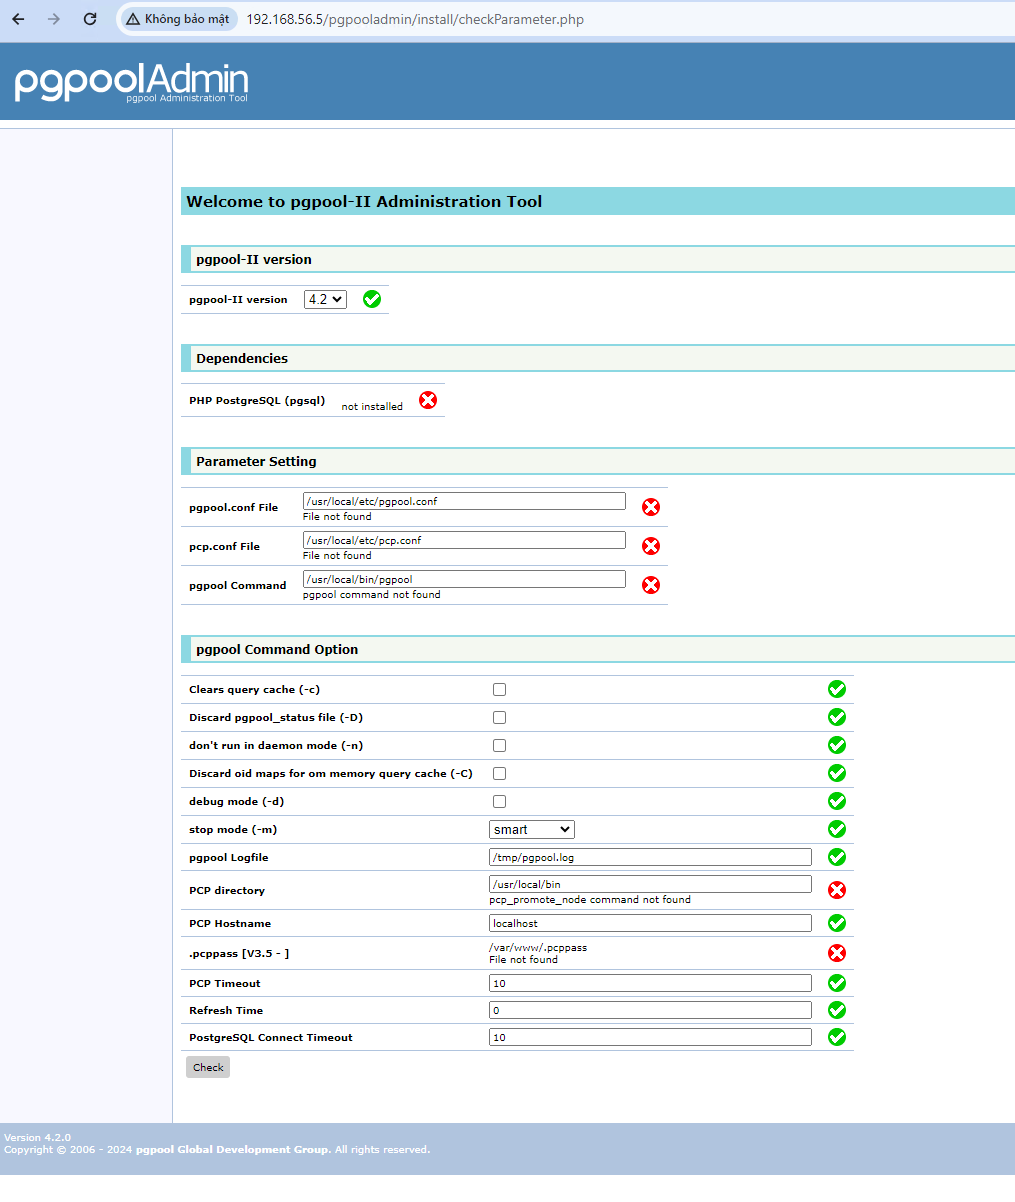
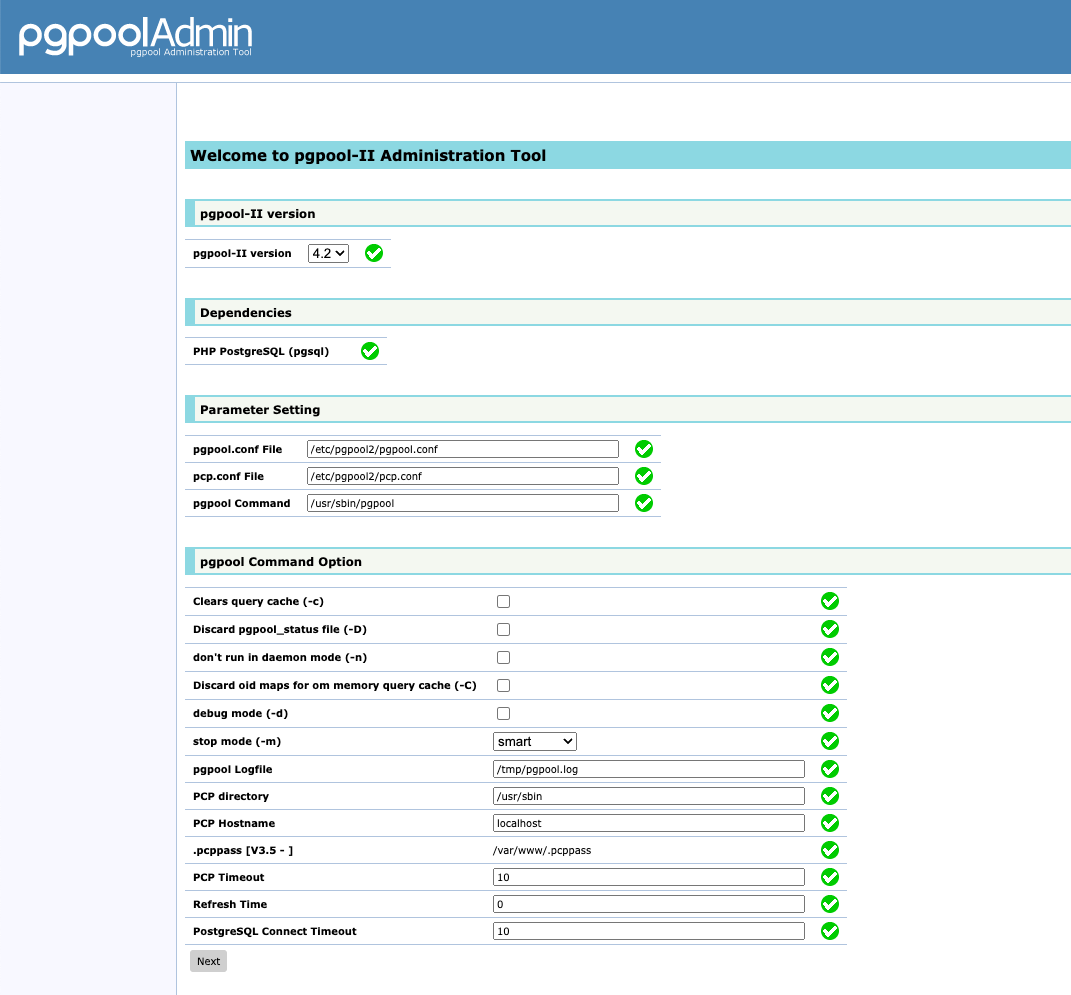
add pgpooladmin

Changed region(s): [[0.0, 0.0, 1.0, 0.997]]

diff --git a/content/courses/postgresql-database-administrator/06-pgpooladmin/index.en.md b/content/courses/postgresql-database-administrator/06-pgpooladmin/index.en.md
@@ -1,0 +1,199 @@
+---
+categories:
+  - database
+date: 2024-02-25T08:00:00+08:00
+draft: false
+featuredImage: /labs/postgresql/postgresql-pgpooladmin.jpeg
+images:
+  - /labs/postgresql/postgresql-pgpooladmin.jpeg
+license: <a rel="license external nofollow noopener noreffer" href="https://creativecommons.org/licenses/by-nc/4.0/" target="_blank">CC BY-NC 4.0</a>
+tags:
+  - database
+  - postgreSQL
+  - ubuntu
+  - pgpool
+title: Lesson 6 - Pgpool Admin Ubuntu 
+url: /install-and-configure-pgpool-admin-on-ubuntu
+description: Pgpool Admin is a configuration management and monitoring tool for PGpool-II, helping you manage and monitor the performance of your PostgreSQL database. In this guide, we will go through the steps to install and configure Pgpool Admin on Ubuntu Linux, helping you manage and monitor the performance of your database.
+weight: 6
+---
+
+## What is Pgpool Admin
+
+Pgpool Admin is a configuration management and monitoring tool for PGpool-II, helping you manage and monitor the performance of your PostgreSQL database. In this guide, we will go through the steps to install and configure Pgpool Admin on Ubuntu Linux, helping you manage and monitor the performance of your database.
+
+
+### Installing Pgpool Admin on Ubuntu
+
+#### Step 1: Install apache2 and php
+
+Add php repository
+
+```bash
+sudo apt-add-repository ppa:ondrej/php
+sudo apt update
+```
+
+First, install Apache2 and PHP on the `pgpool2` server by performing the following steps:
+
+```bash
+sudo apt update
+sudo apt install -y apache2 php sudo apt install php7.4 libapache2-mod-php7.4 php7.4-cli php7.4-common php7.4-pgsql 
+```
+
+After the installation is complete, check the PHP version:
+
+```bash
+php -v
+```
+
+{{< figure src="./images/php-version.jpg" >}}
+
+#### Step 2: Download PGpool Admin 4.2.0
+
+First, download PGpool Admin from the official website of the PGpool-II project:
+
+```bash
+wget https://www.pgpool.net/mediawiki/download.php?f=pgpoolAdmin-4.2.0.tar.gz -O pgpoolAdmin-4.2.0.tar.gz
+```
+
+After the download is complete, extract the downloaded file:
+
+```bash
+tar -xvf pgpoolAdmin-4.2.0.tar.gz
+```
+
+Move the extracted file to the `/var/www/html` directory:
+
+```bash
+sudo mv pgpoolAdmin-4.2.0 /var/www/html/pgpooladmin
+```
+
+after extracting, we need to reconfigure the access rights for the `pgpooladmin` directory:
+
+```bash
+sudo chown -R www-data:www-data /var/www/html/pgpooladmin
+```
+
+{{< figure src="./images/pgpooladmin-directory.jpg" >}}
+
+#### Step 3: Configure apache2
+
+Next, configure Apache2 to run PGpool Admin by creating a new configuration file:
+
+```bash
+sudo nano /etc/apache2/sites-available/pgpooladmin.conf
+```
+
+Add the following configuration to the file:
+
+```bash
+<VirtualHost *:80>
+    ServerAdmin webmaster@localhost
+    DocumentRoot /var/www/html/pgpooladmin
+    <Directory /var/www/html/pgpooladmin>
+        Options FollowSymLinks
+        AllowOverride All
+        Require all granted
+    </Directory>
+    ErrorLog ${APACHE_LOG_DIR}/error.log
+    CustomLog ${APACHE_LOG_DIR}/access.log combined
+</VirtualHost>
+```
+
+{{< figure src="./images/pgpooladmin-apache2.jpg" >}}
+
+After the configuration is complete, save and close the configuration file.
+
+#### Activate the configuration
+
+Next, activate the new configuration file with the following command:
+
+```bash
+sudo a2ensite pgpooladmin.conf
+```
+
+Finally, restart the Apache2 service to apply the changes:
+
+```bash
+sudo systemctl restart apache2
+```
+
+### Step 4: Configure PGpool-II
+
+Create pgpooladmin password
+
+```bash
+pg_md5 akitect@123
+```
+
+{{< figure src="./images/pg_md5.jpg" >}}
+
+Next, we will configure PGpool-II by editing the configuration file `/etc/pgpool2/pgpool.conf`:
+
+```bash
+sudo nano /etc/pgpool2/pcp.conf
+```
+
+{{< figure src="./images/pgpool-pcp.jpg" >}}
+
+where `admin` is the user you want to use to log in to pgpooladmin, `md5` is the password you created above.
+
+Next, create and assign rights to the `.pcppass` file:
+
+```bash
+# Create .pcppass file
+touch /var/www/.pcppass
+
+# Assign rights to the .pcppass file
+chmod -R 0600 /var/www/.pcppass 
+```
+
+### Step 5: Access PGpool Admin and initial configuration
+
+After the installation is complete, access PGpool Admin by opening a web browser and accessing the IP address of the `pgpool2` server: [http://192.168.56.5/pgpooladmin/install](http://192.168.56.5/pgpooladmin/install)
+
+{{< figure src="./images/pgpooladmin-install.jpg" >}}
+
+select the language and press `Next`
+
+{{< figure src="./images/pgpooladmin-install-2.jpg" >}}
+
+Continue to add connection configuration information to `pgpool2`
+
+{{< figure src="./images/pgpooladmin-install-3.jpg" >}}
+
+- `pgpool.conf` enter `/etc/pgpool2/pgpool.conf`
+- `pcp.conf` enter `/etc/pgpool2/pcp.conf`
+- `pgpool Command` enter `/usr/sbin/pgpool`
+- `PCP directory` enter `/usr/sbin`
+
+Continue to press `Next`
+
+{{< figure src="./images/pgpooladmin-install-4.jpg" >}}
+
+So the initial setup is complete, we delete the `install` directory for better security.
+
+```bash
+sudo rm -rf /var/www/html/pgpooladmin/install
+```
+
+{{< figure src="./images/pgpooladmin-install-5.jpg" >}}
+
+### Step 6: Log in to PGpool Admin
+
+After the installation is complete, access PGpool Admin by opening a web browser and accessing the IP address of the `pgpool2` server: [http://192.168.56.5/pgpooladmin](http://192.168.56.5/pgpooladmin)
+
+{{< figure src="./images/pgpooladmin-install-6.jpg" >}}
+
+enter the login information created above and press `Login`
+
+- `Username`: admin
+- `Password`: akitect@123 <- password created above
+
+{{< figure src="./images/pgpooladmin-install-7.jpg" >}}
+
+So we have successfully configured and logged in to PGpool Admin.
+
+### Conclusion
+In this guide, we went through the steps to install and configure PGpool-II on Ubuntu Linux. By performing these steps, you can optimize and expand the capabilities of your PostgreSQL database, helping you maximize the performance and high availability of your database.

diff --git a/content/courses/postgresql-database-administrator/06-pgpooladmin/index.md b/content/courses/postgresql-database-administrator/06-pgpooladmin/index.md
@@ -2,10 +2,10 @@
 categories:
   - database
 date: 2024-02-25T08:00:00+08:00
-draft: true
-featuredImage: /labs/postgresql/postgresql-pgpool.jpeg
+draft: false
+featuredImage: /labs/postgresql/postgresql-pgpooladmin.jpeg
 images:
-  - /labs/postgresql/postgresql-pgpool.jpeg
+  - /labs/postgresql/postgresql-pgpooladmin.jpeg
 license: <a rel="license external nofollow noopener noreffer" href="https://creativecommons.org/licenses/by-nc/4.0/" target="_blank">CC BY-NC 4.0</a>
 tags:
   - database
@@ -22,6 +22,9 @@ weight: 6
 
 Pgpool Admin là một công cụ quản lý cấu hình và giám sát PGpool-II, giúp bạn quản lý và theo dõi hiệu suất của cơ sở dữ liệu PostgreSQL. Trong hướng dẫn này, chúng ta sẽ đi qua các bước để cài đặt và cấu hình PGpool Admin trên hệ điều hành Ubuntu Linux, giúp bạn quản lý và theo dõi hiệu suất của cơ sở dữ liệu của mình.
 
+## Kiến trúc cài đặt
+
+{{< figure src="./images/postgresql-pgpooladmin.jpeg" >}}
 
 ### Cài đặt PGpool Admin trên Ubuntu
 
@@ -119,6 +122,36 @@ Cuối cùng, khởi động lại dịch vụ Apache2 để áp dụng các tha
 sudo systemctl restart apache2
 ```
 
+### Bước 4: Cấu hình PGpool-II
+
+Tạo password pgpooladmin
+
+```bash
+pg_md5 akitect@123
+```
+
+{{< figure src="./images/pg_md5.jpg" >}}
+
+Tiếp theo, chúng ta sẽ cấu hình PGpool-II bằng cách chỉnh sửa tệp cấu hình `/etc/pgpool2/pgpool.conf`:
+
+```bash
+sudo nano /etc/pgpool2/pcp.conf
+```
+
+{{< figure src="./images/pgpool-pcp.jpg" >}}
+
+trong đó `admin` là user mà bạn muốn sử dụng để đăng nhập vào pgpooladmin, `md5` là mật khẩu mà bạn đã tạo ở trên.
+
+Tiếp theo tạo và gán quyền cho tệp `.pcppass`:
+
+```bash
+# Tạo tệp .pcppass
+touch /var/www/.pcppass
+
+# Gán quyền cho tệp .pcppass
+chmod -R 0600 /var/www/.pcppass 
+```
+
 ### Bước 5: Truy cập PGpool Admin và cấu hình ban đầu
 
 Sau khi cài đặt xong, truy cập PGpool Admin bằng cách mở trình duyệt web và truy cập địa chỉ IP của máy chủ `pgpool2` : [http://192.168.56.5/pgpooladmin/install](http://192.168.56.5/pgpooladmin/install)
@@ -129,12 +162,41 @@ chọn ngôn ngữ và nhấn `Next`
 
 {{< figure src="./images/pgpooladmin-install-2.jpg" >}}
 
-Tiếp tục thêm thông tin cấu hình kết nối đến pgpool2
+Tiếp tục thêm thông tin cấu hình kết nối đến `pgpool2`
 
 {{< figure src="./images/pgpooladmin-install-3.jpg" >}}
 
+- `pgpool.conf` nhập `/etc/pgpool2/pgpool.conf`
+- `pcp.conf` nhập `/etc/pgpool2/pcp.conf`
+- `pgpool Command` nhập `/usr/sbin/pgpool`
+- `PCP directory` nhập `/usr/sbin`
 
+Tiếp tục nhấn `Next`
 
+{{< figure src="./images/pgpooladmin-install-4.jpg" >}}
+
+Như vậy đã setup ban đầu xong, ta xoá thư mục `install` để bảo mật hơn.
+
+```bash
+sudo rm -rf /var/www/html/pgpooladmin/install
+```
+
+{{< figure src="./images/pgpooladmin-install-5.jpg" >}}
+
+### Bước 6: Đăng nhập vào PGpool Admin
+
+Sau khi cài đặt xong, truy cập PGpool Admin bằng cách mở trình duyệt web và truy cập địa chỉ IP của máy chủ `pgpool2` : [http://192.168.56.5/pgpooladmin](http://192.168.56.5/pgpooladmin)
+
+{{< figure src="./images/pgpooladmin-install-6.jpg" >}}
+
+nhập thông tin đăng nhập đã tạo ở trên và nhấn `Login`
+
+- `Username`: admin
+- `Password`: akitect@123 <- mật khẩu đã tạo ở trên
+
+{{< figure src="./images/pgpooladmin-install-7.jpg" >}}
+
+Như vậy ta đã cấu hình và đăng nhập thành công vào PGpool Admin.
 
 ### Kết luận
 Trong hướng dẫn này, chúng ta đã đi qua các bước để cài đặt và cấu hình PGpool-II trên hệ điều hành Ubuntu Linux. Bằng cách thực hiện các bước này, bạn có thể tối ưu hóa và mở rộng khả năng của cơ sở dữ liệu PostgreSQL, giúp bạn khai thác tối đa hiệu suất và tính sẵn sàng cao của cơ sở dữ liệu của mình.

diff --git a/content/courses/postgresql-database-administrator/05-pgpool/index.md b/content/courses/postgresql-database-administrator/05-pgpool/index.md
@@ -88,6 +88,8 @@ backend_application_name0 = 'postgresql-slave-02'
 load_balance_mode = on
 master_slave_mode = on 
 master_slave_sub_mode = 'stream'
+
+allow_sql_comments = true
 ```
 
 Trong đó: 

diff --git a/content/courses/postgresql-database-administrator/05-pgpool/index.en.md b/content/courses/postgresql-database-administrator/05-pgpool/index.en.md
@@ -88,6 +88,8 @@ backend_application_name0 = 'postgresql-slave-02'
 load_balance_mode = on
 master_slave_mode = on 
 master_slave_sub_mode = 'stream'
+
+allow_sql_comments = true
 ```
 
 Where: 
